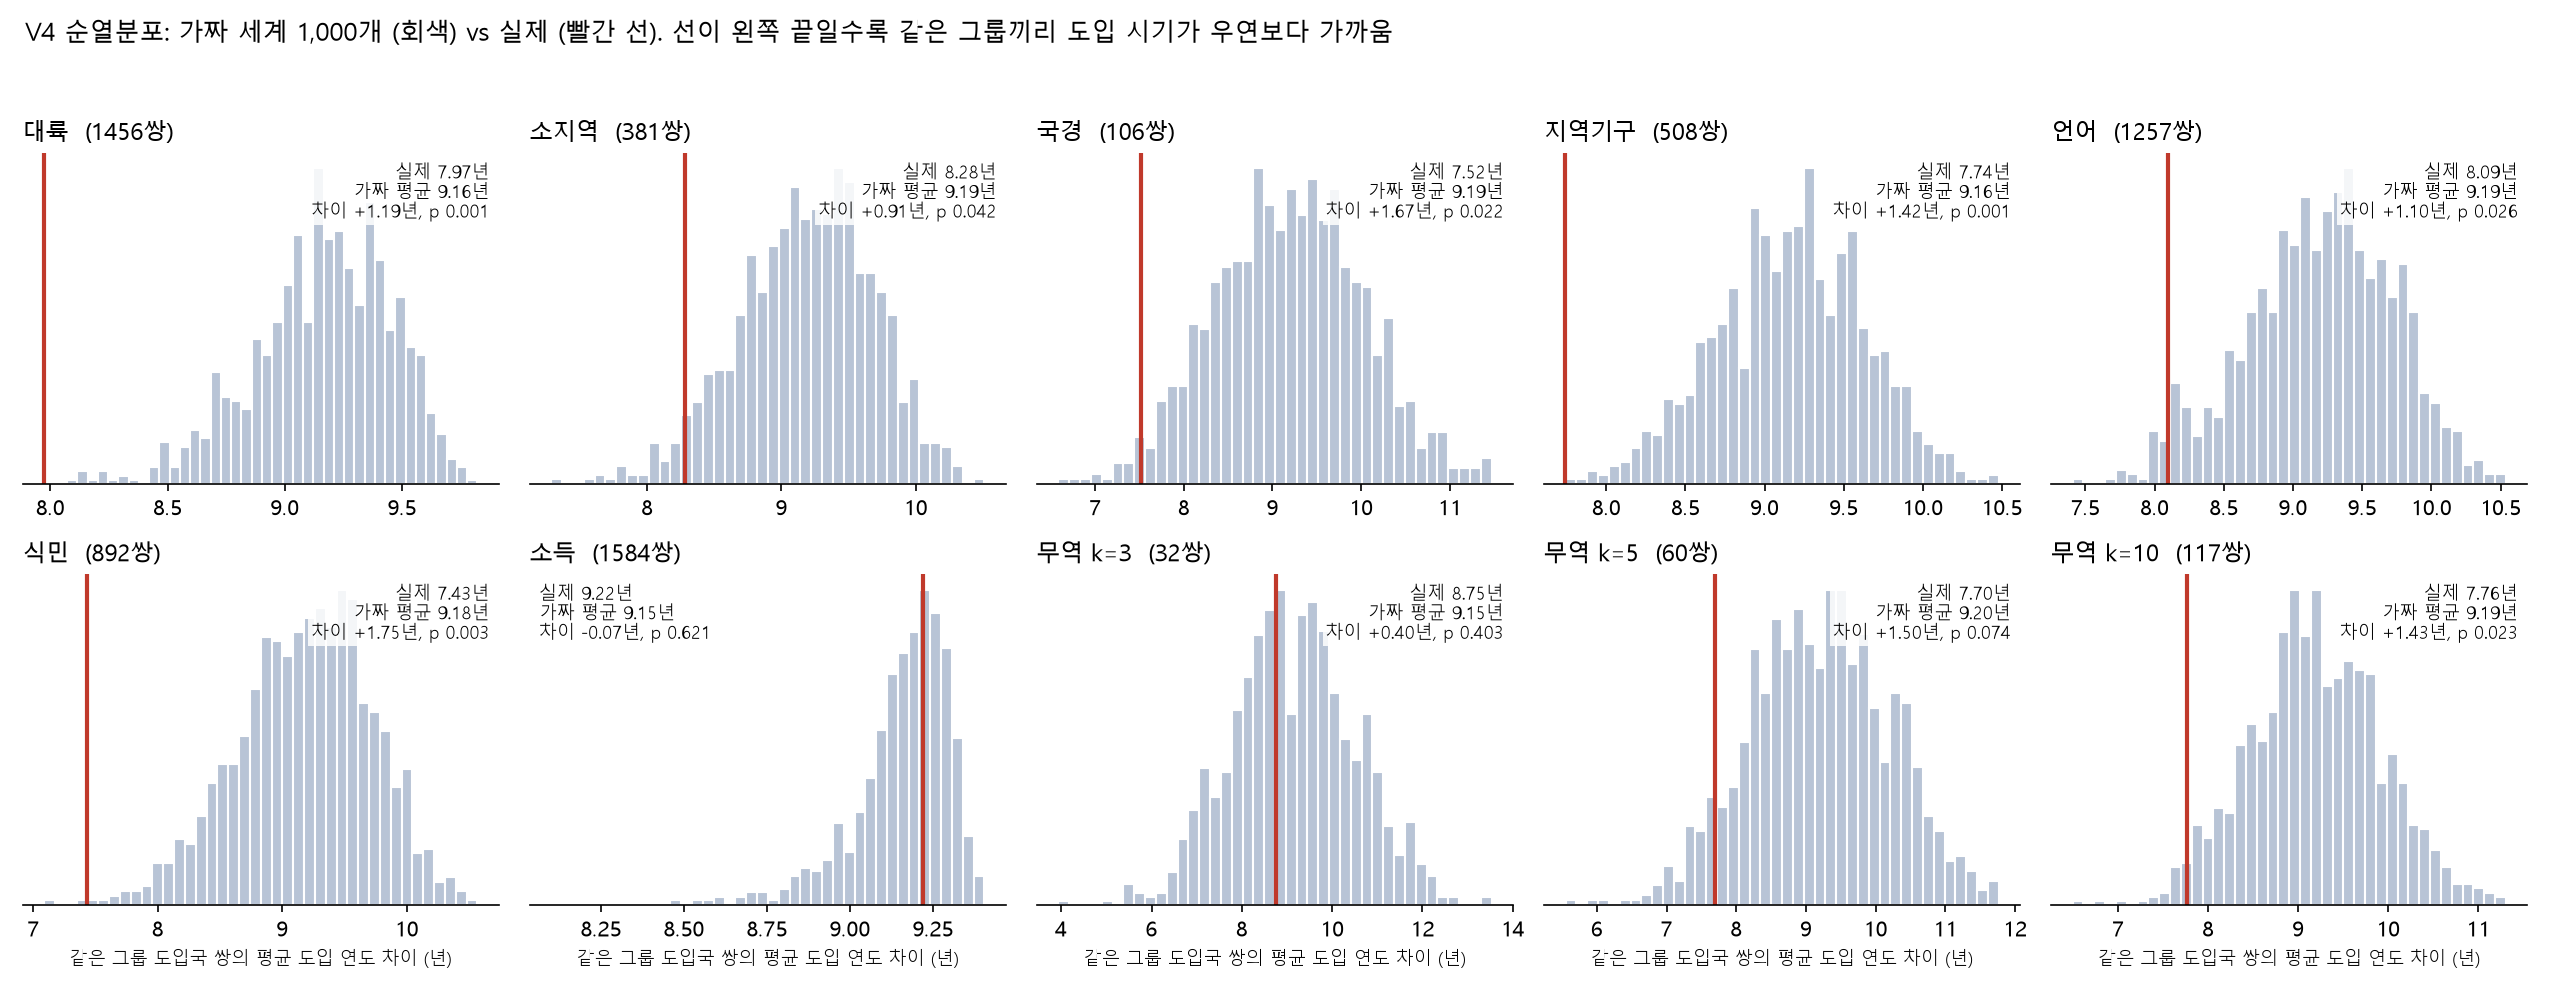
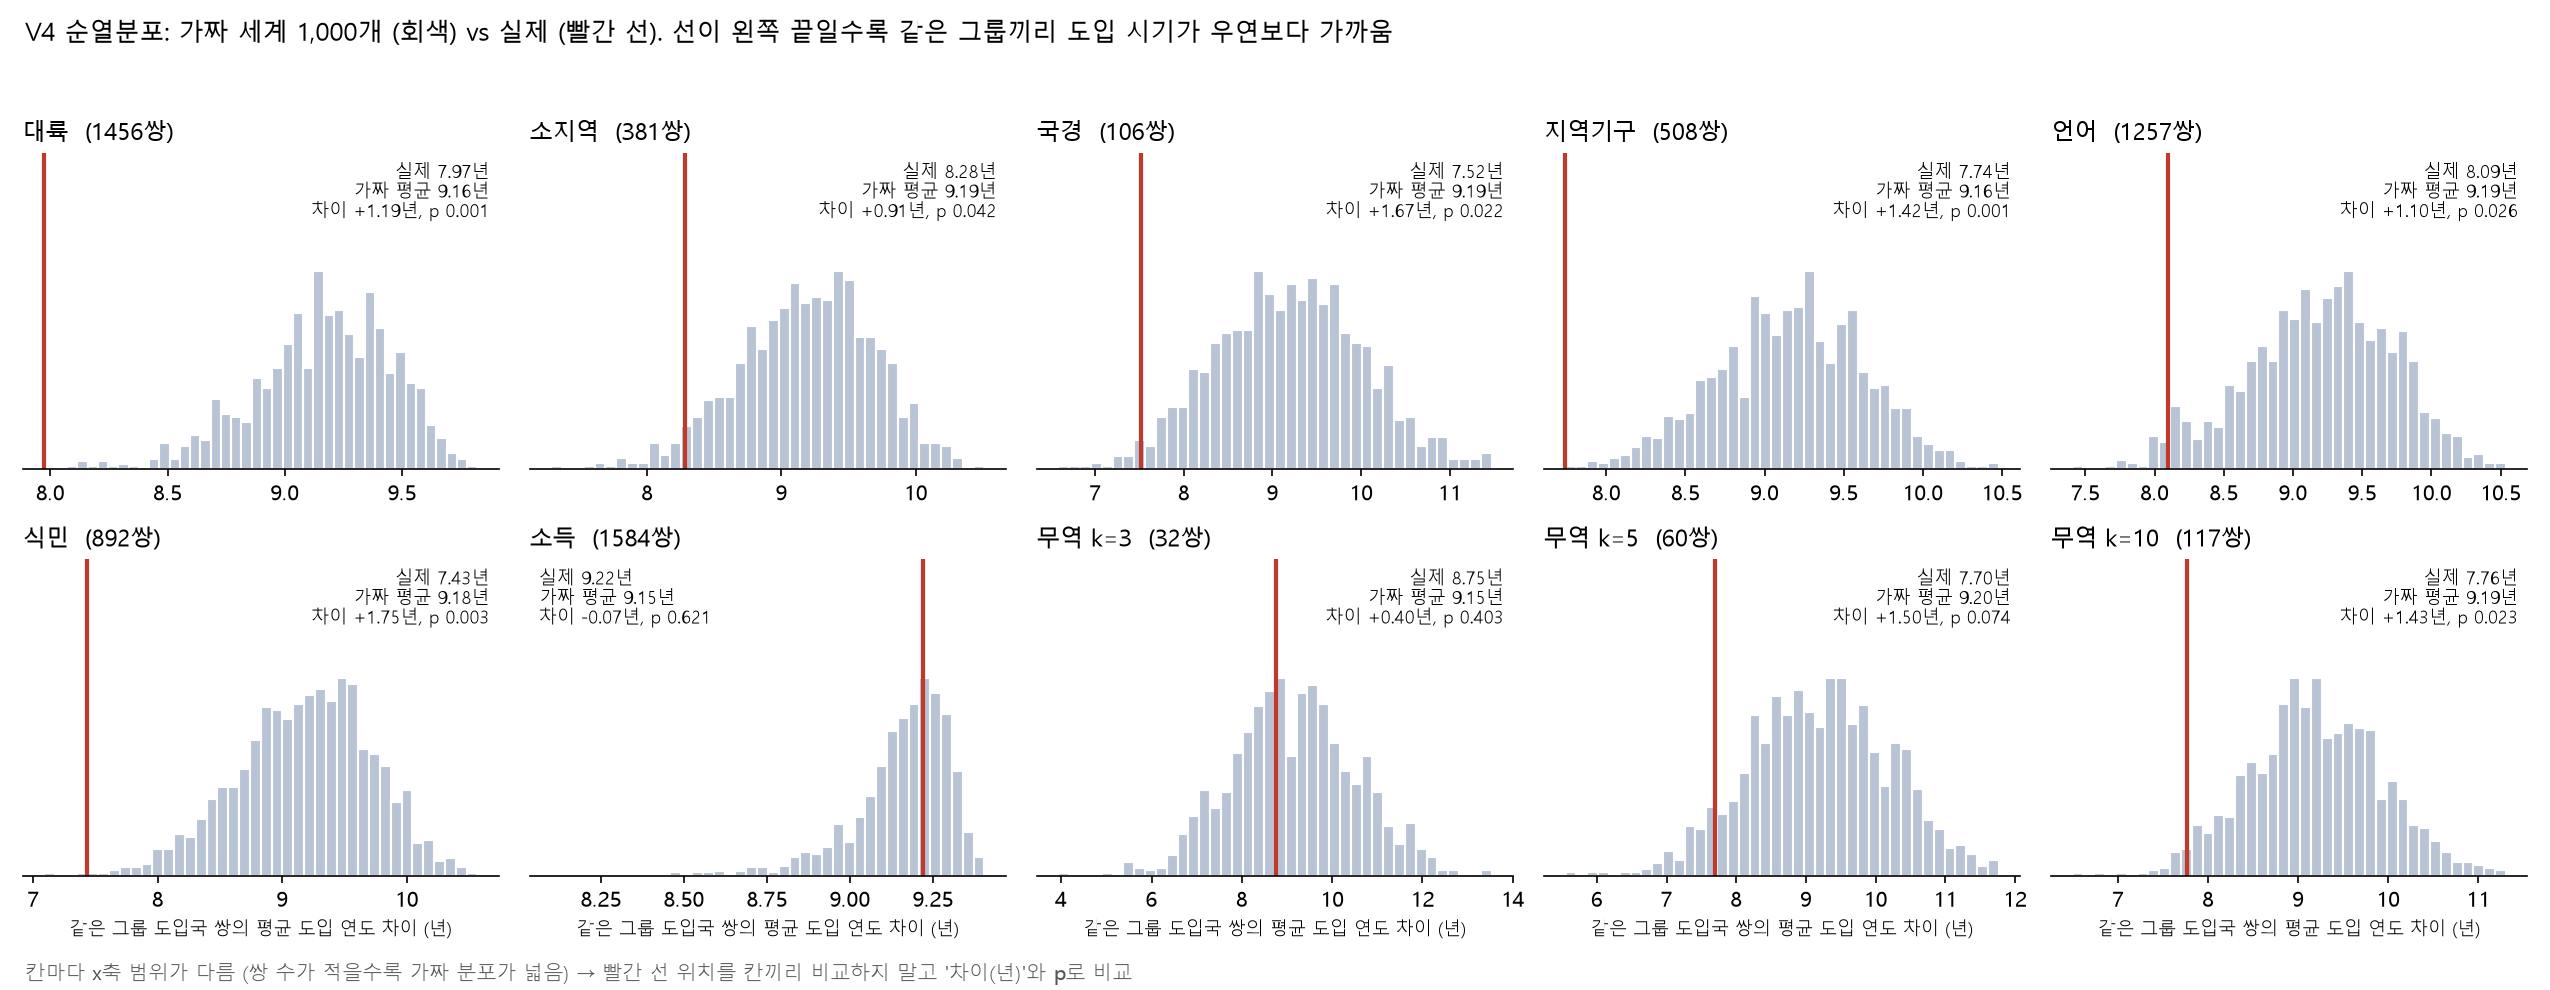
V4 리뷰 반영: LOAS는 대륙을 넘는 기구, 그림 글상자・축 안내, 상태 표・unsure46 출처
- validation.md 3장: 남는 기구 중 SADC・GCC는 대륙 안, LOAS는 아프리카・아시아에 걸침 (stage2.md와 맞춤)
- 그림: 막대 위 여유 두어 글상자가 안 가리게, '칸마다 x축 다름' 안내 줄
- 상태 표 V4 칸에 언어・식민 그룹별 보정(서현) 추가
- unsure46 숫자 출처를 stage2_continent_check.csv(#25)로
- CSV 변화 없음 (그림만 다시 그림)

diff --git a/docs/analysis/validation.md b/docs/analysis/validation.md
@@ -8,7 +8,7 @@
 | V1 가상 데이터 실험 | ✅ S0・S1(β 4개)・S2 (서현 11/21) | 2장 |
 | V2 대륙 안에서만 섞기 | ✅ 전 계층 (언어・식민 서현, 나머지 서영 11/21) | 1장 |
 | V3 후속 도입 분석 | ⬜ (승아, 선택) | – |
-| V4 민감도 | ✅ 의심 국가 빼기 (`exclude_checked.md`), 나머지 (수정 11/22) | 3장 |
+| V4 민감도 | ✅ 의심 국가 빼기 (서영, `exclude_checked.md`), 언어・식민 그룹별 보정 (서현, `language.md`), 나머지 (수정 11/22) | 3장 |
 
 ---
 
@@ -249,10 +249,10 @@
 ### 읽는 법
 
 - **대륙 효과는 아프리카에 기댐.** 아프리카를 빼면 p 0.781, 대륙마다 한 표면 p 0.328. 아메리카・유럽 안에서는 오히려 우연보다 시기가 흩어져 있음 (일찍 한 나라와 2017년 이후 한 나라가 섞임) → "같은 대륙끼리 가까웠다"는 **주로 아프리카(일부 아시아)** 이야기. 핵심 메시지 A-1 표현에 영향 → **이슈 #22, 11/26 회의**
-  - 의심 19개국을 빼도(`unsure46`) 아프리카 빼면 p 0.590. 다만 19개국 중 11개국이 아프리카라 아시아(p 0.024)도 남음 (이슈 #22, CSV엔 없음)
+  - 의심 19개국을 빼도(`unsure46`) 아프리카 빼면 p 0.590. 다만 19개국 중 11개국이 아프리카라 아시아(p 0.024)도 남음 (이슈 #22, `analysis/stage2_continent_check.csv` `version = unsure46`, `stat = no_Africa`・`Asia`). 원인 점검은 `stage2.md` '대륙 효과 점검'
 - **식민 효과는 영국 옛 식민지끼리에 기댐.** `samecol_GBR` 빼면 p 0.561 → 2-1단계(영국 빼면 p 0.77)와 같은 결론
 - **언어**: 모든 그룹 동일 가중 p 0.370은 도입국 2개짜리 작은 언어(1쌍)가 섞여서. 해석 그룹(5개)만 보면 p 0.004 → 큰 언어권 몇 개가 고르게 기여. 다만 그룹별로는 보정 후 남는 언어 없음
-- **지역기구가 가장 안정적**: 동일 가중・그룹 빼기・BH 다 통과. 단 V2(대륙 안 섞기 p 0.136)・2단계(대륙 넣으면 사라짐)와 같이 봐야 함 → 남는 기구(LOAS・SADC・GCC)도 대륙 안 기구
+- **지역기구가 가장 안정적**: 동일 가중・그룹 빼기・BH 다 통과. 단 V2(대륙 안 섞기 p 0.136)・2단계(대륙 넣으면 사라짐)와 같이 봐야 함 → 남는 기구 중 SADC・GCC는 대륙 안 기구. LOAS(아랍연맹)는 아프리카・아시아에 걸쳐 대륙을 넘음 → 대륙 넘는 기구 20쌍이 전부 LOAS이고 2-1단계 '약한 힌트'와 같은 쌍 (`stage2.md` '지역 겹침 분리')
 - 효과 크기는 1~2년 (z 2~4). "같은 그룹이면 도입 연도 차이가 우연보다 1~2년 작다" 정도
 
 ### 한계
